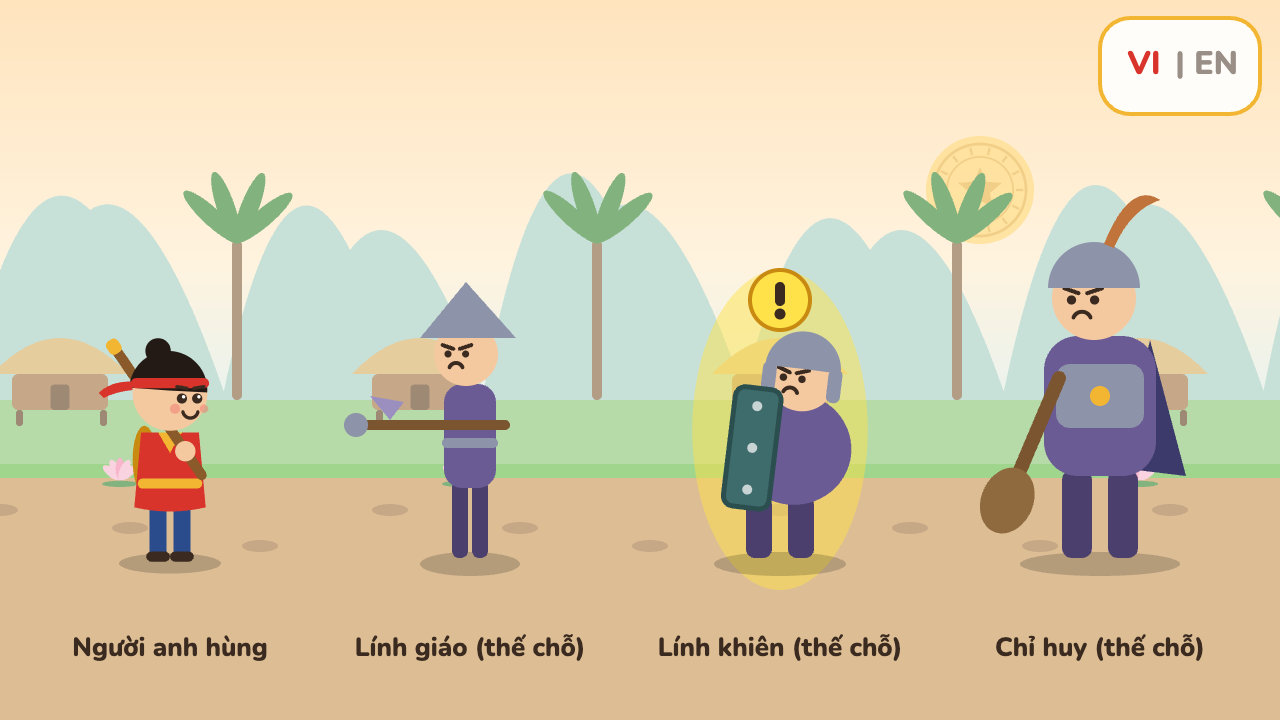
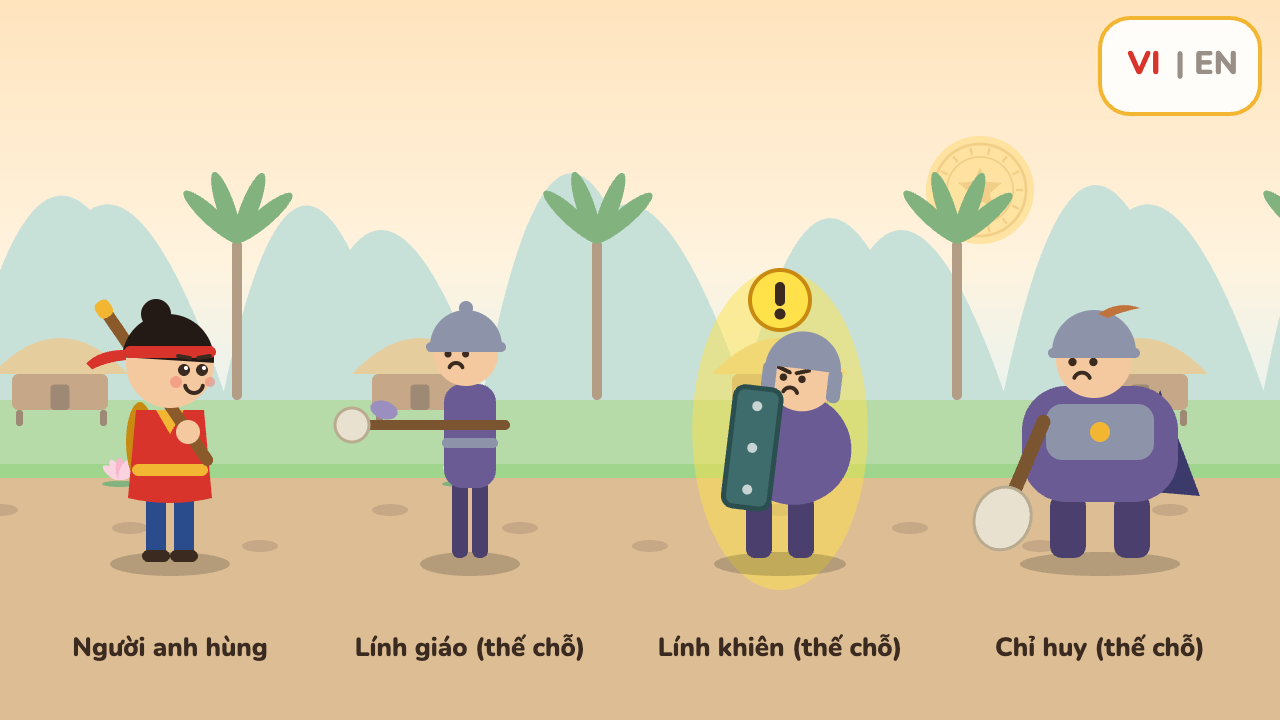
fix: TASK-003 content and code review rework
Content review (game-art-content):
- spear soldier: conical hat replaced by a rounded dome helmet with a small knob; no real-world headwear on any enemy
- commander: no taller than the hero, wider instead
- spear and club: padded, rounded tips; the triangle pennant is now a soft cloth tuft; dropped weapons match

Code review (game-dev-001):
- safe-area insets: the canvas fits inside innerWidth/innerHeight minus env(safe-area-inset-*) (read through --sa* CSS vars); viewport-fit=cover kept; ?inset= simulates a phone's insets for screenshots
- pointers: lostpointercapture counts as a lift; holds clear on visibilitychange when hidden
- hpLeader 5 -> 3, as in the approved plan
- standGap, queueSpacing, kbDecay, spawnOffset, lockOffset moved to config.js
- brief notes for QC: buttons fire on pointerdown

Re-shot: telegraph (VI/EN, 640x360, 844x390, 932x430), figures, leader_beat4, safe-area 844x390 (simulated iPhone insets). Full keyboard playthrough title -> unlock: 0 uncaught errors.

Task: TASK-003

diff --git a/prototypes/tqt-mission/index.html b/prototypes/tqt-mission/index.html
@@ -12,7 +12,9 @@
   html, body { margin: 0; height: 100%; background: #2a2440; overflow: hidden; }
   body { font-variant-numeric: tabular-nums; font-family: Nunito, sans-serif;
          -webkit-user-select: none; user-select: none; -webkit-touch-callout: none; }
-  canvas { display: block; margin: 0 auto; touch-action: none; }
+  :root { --sat: env(safe-area-inset-top, 0px); --sar: env(safe-area-inset-right, 0px);
+          --sab: env(safe-area-inset-bottom, 0px); --sal: env(safe-area-inset-left, 0px); }
+  canvas { display: block; position: absolute; touch-action: none; }
   #rotate { display: none; position: fixed; inset: 0; background: #2a2440; color: #fff;
             flex-direction: column; align-items: center; justify-content: center; gap: 24px;
             font: 800 26px Nunito, sans-serif; text-align: center; padding: 24px; box-sizing: border-box; }
@@ -76,16 +78,32 @@ setLang(lang);
 const canvas = document.getElementById('game');
 const ctx = canvas.getContext('2d');
 let viewScale = 1;
+// Safe areas (notch, home-indicator swipe zone): the canvas fits inside innerWidth/innerHeight minus
+// env(safe-area-inset-*), read through the --sa* CSS vars. ?inset=top,right,bottom,left (CSS px)
+// simulates a phone's insets for a desktop screenshot; players never see it.
+const SIM_INSET = (params.get('inset') || '').split(',').map(Number);
+function insets() {
+  if (SIM_INSET.length === 4 && SIM_INSET.every(n => n >= 0)) return { t: SIM_INSET[0], r: SIM_INSET[1], b: SIM_INSET[2], l: SIM_INSET[3] };
+  const cs = getComputedStyle(document.documentElement), v = n => parseFloat(cs.getPropertyValue(n)) || 0;
+  return { t: v('--sat'), r: v('--sar'), b: v('--sab'), l: v('--sal') };
+}
 function fit() {
-  const k = Math.min(innerWidth / W, innerHeight / H);
+  const ins = insets(), aw = Math.max(1, innerWidth - ins.l - ins.r), ah = Math.max(1, innerHeight - ins.t - ins.b);
+  const k = Math.min(aw / W, ah / H);
   viewScale = k;
   const r = k * (devicePixelRatio || 1);
   canvas.width = Math.round(W * r); canvas.height = Math.round(H * r);
   canvas.style.width = Math.round(W * k) + 'px'; canvas.style.height = Math.round(H * k) + 'px';
-  canvas.style.marginTop = Math.max(0, Math.floor((innerHeight - H * k) / 2)) + 'px';
+  canvas.style.left = Math.floor(ins.l + (aw - W * k) / 2) + 'px';
+  canvas.style.top = Math.floor(ins.t + (ah - H * k) / 2) + 'px';
   ctx.setTransform(r, 0, 0, r, 0, 0); ctx.imageSmoothingEnabled = true;
+  if (SIM_INSET.length === 4) { // show the simulated unsafe band in the shot
+    let d = document.getElementById('inset-sim');
+    if (!d) { d = document.createElement('div'); d.id = 'inset-sim'; document.body.appendChild(d); }
+    d.style.cssText = `position:fixed;left:0;right:0;bottom:0;height:${ins.b}px;background:repeating-linear-gradient(45deg,rgba(255,60,60,.55) 0 6px,transparent 6px 12px);pointer-events:none`;
+  }
 }
-addEventListener('resize', fit); fit();
+addEventListener('resize', fit); addEventListener('orientationchange', fit); fit();
 const portrait = () => innerHeight > innerWidth;
 
 // ---- Drawing helpers ----
@@ -168,7 +186,9 @@ addEventListener('keydown', e => {
   if (e.code === 'Space' || e.code.startsWith('Arrow')) e.preventDefault();
 });
 addEventListener('keyup', e => down.delete(e.code));
-addEventListener('blur', () => { down.clear(); touchHold.clear(); });
+const releaseAll = () => { down.clear(); touchHold.clear(); };
+addEventListener('blur', releaseAll);
+document.addEventListener('visibilitychange', () => { if (document.hidden) releaseAll(); }); // more reliable than blur on phones
 
 let ui = []; // buttons drawn this frame: {x,y,w,h, onTap} or {cx,cy,r, action}
 function toLogical(e) {
@@ -195,6 +215,7 @@ canvas.addEventListener('pointermove', e => { // a thumb sliding between ◀ and
 });
 const lift = e => touchHold.delete(e.pointerId);
 canvas.addEventListener('pointerup', lift); canvas.addEventListener('pointercancel', lift);
+canvas.addEventListener('lostpointercapture', lift); // a lost capture never leaves an action held
 canvas.addEventListener('contextmenu', e => e.preventDefault());
 let pendingTaps = [];
 
@@ -341,18 +362,18 @@ function drawEnemy(e, t) {
   const lean = e.state === 'windup' ? -0.12 : e.state === 'strike' ? 0.15 : 0;
   const weapon = e.state !== 'flee';
   const dizzy = e.state === 'flee' || e.state === 'hurt';
-  if (k === 'spear') { // tall and thin, conical hat, long blunt spear with a pennant
+  if (k === 'spear') { // slim, rounded dome helmet with a small knob (no real-world headwear), padded prop spear
     ctx.fillStyle = C.enemyDark; rr(-18 + lw * 8, -80, 16, 78, 7); ctx.fill(); rr(2 - lw * 8, -80, 16, 78, 7); ctx.fill();
     ctx.save(); ctx.rotate(lean);
     ctx.fillStyle = C.enemy; rr(-26, -176, 52, 104, 18); ctx.fill();
     ctx.fillStyle = C.steel; rr(-28, -122, 56, 10, 5); ctx.fill();
     circle(4, -206, 32, C.skin); grumpyFace(14, -206, 32, dizzy, t);
-    ctx.fillStyle = C.steel; ctx.beginPath(); ctx.moveTo(-46, -222); ctx.lineTo(50, -222); ctx.lineTo(4, -278); ctx.closePath(); ctx.fill(); // conical hat
+    ctx.fillStyle = C.steel; ctx.beginPath(); ctx.arc(4, -214, 36, Math.PI, 0); ctx.fill(); rr(-36, -218, 80, 10, 5); ctx.fill(); circle(4, -252, 7, C.steel); // dome helmet + knob
     if (weapon) {
       const reach = e.state === 'strike' ? 40 : e.state === 'windup' ? -30 : 0;
       ctx.fillStyle = '#7a5530'; rr(-40 + reach, -140, 150, 10, 5); ctx.fill();
-      circle(114 + reach, -135, 12, C.steel);                                  // blunt rounded tip
-      ctx.fillStyle = '#9b8fc0'; ctx.beginPath(); ctx.moveTo(80 + reach, -140); ctx.lineTo(100 + reach, -164); ctx.lineTo(66 + reach, -158); ctx.closePath(); ctx.fill();
+      circle(118 + reach, -135, 17, '#e9e1cf', '#b8ab90', 3);                // big padded tip (prop-like, no point)
+      ctx.fillStyle = '#9b8fc0'; ctx.beginPath(); ctx.ellipse(86 + reach, -150, 14, 9, -0.3, 0, Math.PI * 2); ctx.fill(); // soft cloth tuft
     } else { ctx.fillStyle = C.skin; circle(-30, -190, 10, C.skin); circle(36, -194, 10, C.skin); } // hands up
     ctx.restore();
   } else if (k === 'shield') { // short and wide, round cap with ear flaps, big square shield
@@ -369,27 +390,27 @@ function drawEnemy(e, t) {
       for (const ry of [-150, -108, -66]) circle(57 + push, ry, 5, '#c8d3d3');
     } else { circle(-40, -160, 12, C.skin); circle(44, -164, 12, C.skin); }
     ctx.restore();
-  } else { // leader: big and broad, cape, helmet with a tall plume, big rounded club
-    ctx.fillStyle = C.enemyDark; rr(-38 + lw * 8, -90, 30, 88, 10); ctx.fill(); rr(8 - lw * 8, -90, 30, 88, 10); ctx.fill();
+  } else { // leader: as tall as the hero at most (art-content review), much wider; cape, dome helmet, short plume, padded club
+    ctx.fillStyle = C.enemyDark; rr(-50 + lw * 8, -66, 36, 64, 12); ctx.fill(); rr(14 - lw * 8, -66, 36, 64, 12); ctx.fill();
     ctx.save(); ctx.rotate(lean);
-    ctx.fillStyle = '#3b3a6b'; ctx.beginPath(); ctx.moveTo(-50, -220); ctx.lineTo(-86, -84); ctx.lineTo(-20, -92); ctx.closePath(); ctx.fill(); // cape
-    ctx.fillStyle = C.enemy; rr(-56, -224, 112, 140, 34); ctx.fill();
-    ctx.fillStyle = C.steel; rr(-44, -196, 88, 64, 14); ctx.fill();            // breastplate
-    ctx.fillStyle = C.gold; circle(0, -164, 10, C.gold);
-    circle(6, -262, 42, C.skin); grumpyFace(18, -260, 42, dizzy, t);
-    ctx.fillStyle = C.steel; ctx.beginPath(); ctx.arc(6, -272, 46, Math.PI, 0); ctx.fill();
-    ctx.fillStyle = '#c0733a'; ctx.beginPath(); ctx.moveTo(-4, -316); ctx.quadraticCurveTo(-30, -380, -60, -360); ctx.quadraticCurveTo(-30, -350, -14, -312); ctx.fill(); // plume
+    ctx.fillStyle = '#3b3a6b'; ctx.beginPath(); ctx.moveTo(-60, -170); ctx.lineTo(-100, -64); ctx.lineTo(-30, -70); ctx.closePath(); ctx.fill(); // cape
+    ctx.fillStyle = C.enemy; rr(-78, -174, 156, 116, 44); ctx.fill();
+    ctx.fillStyle = C.steel; rr(-54, -156, 108, 56, 16); ctx.fill();           // breastplate
+    circle(0, -128, 10, C.gold);
+    circle(6, -200, 38, C.skin); grumpyFace(18, -198, 38, dizzy, t);
+    ctx.fillStyle = C.steel; ctx.beginPath(); ctx.arc(6, -208, 42, Math.PI, 0); ctx.fill(); rr(-40, -212, 92, 10, 5); ctx.fill();
+    ctx.fillStyle = '#c0733a'; ctx.beginPath(); ctx.moveTo(2, -246); ctx.quadraticCurveTo(-18, -260, -40, -252); ctx.quadraticCurveTo(-20, -248, -8, -242); ctx.fill(); // short plume
     if (weapon) {
       const sw = e.state === 'windup' ? -1.2 : e.state === 'strike' ? 0.6 : -0.4;
-      ctx.save(); ctx.translate(46, -170); ctx.rotate(sw);
-      ctx.fillStyle = '#7a5530'; rr(-7, -20, 14, 130, 7); ctx.fill();
-      ctx.fillStyle = '#8f6a3e'; ctx.beginPath(); ctx.ellipse(0, 120, 26, 34, 0, 0, Math.PI * 2); ctx.fill(); // rounded club head
+      ctx.save(); ctx.translate(60, -130); ctx.rotate(sw);
+      ctx.fillStyle = '#7a5530'; rr(-7, -16, 14, 100, 7); ctx.fill();
+      ctx.fillStyle = '#e9e1cf'; ctx.beginPath(); ctx.ellipse(0, 96, 28, 32, 0, 0, Math.PI * 2); ctx.fill(); ctx.strokeStyle = '#b8ab90'; ctx.lineWidth = 3; ctx.stroke(); // padded club head
       ctx.restore();
-    } else { circle(-60, -240, 14, C.skin); circle(70, -244, 14, C.skin); }
+    } else { circle(-80, -170, 14, C.skin); circle(90, -174, 14, C.skin); }
     ctx.restore();
   }
   ctx.restore();
-  const topY = GROUND - (k === 'leader' ? 360 : k === 'shield' ? 240 : 290);
+  const topY = GROUND - (k === 'leader' ? 280 : k === 'shield' ? 240 : 272);
   if (dizzy) for (let i = 0; i < 3; i++) { const a = t * 5 + i * 2.1; star(e.x + Math.cos(a) * 34, topY + 20 + Math.sin(a) * 10, 9, C.glow, C.goldDark, a); }
   if (e.state === 'windup') { // telegraph: pulsing glow ring + a drawn "!" bubble
     const bx = e.x, by = topY - 20;
@@ -399,9 +420,9 @@ function drawEnemy(e, t) {
 }
 function drawDropped(d) { // a dropped weapon lying on the path (it fades)
   ctx.save(); ctx.globalAlpha = Math.min(1, d.life); ctx.translate(d.x, GROUND - 8); ctx.rotate(d.rot);
-  if (d.kind === 'spear') { ctx.fillStyle = '#7a5530'; rr(-90, -5, 180, 10, 5); ctx.fill(); circle(92, 0, 11, C.steel); }
+  if (d.kind === 'spear') { ctx.fillStyle = '#7a5530'; rr(-75, -5, 150, 10, 5); ctx.fill(); circle(80, 0, 15, '#e9e1cf', '#b8ab90', 3); }
   else if (d.kind === 'shield') { ctx.fillStyle = C.teal; rr(-60, -16, 120, 32, 8); ctx.fill(); }
-  else { ctx.fillStyle = '#7a5530'; rr(-60, -6, 120, 12, 6); ctx.fill(); ctx.fillStyle = '#8f6a3e'; ctx.beginPath(); ctx.ellipse(70, 0, 30, 22, 0, 0, Math.PI * 2); ctx.fill(); }
+  else { ctx.fillStyle = '#7a5530'; rr(-60, -6, 120, 12, 6); ctx.fill(); ctx.fillStyle = '#e9e1cf'; ctx.beginPath(); ctx.ellipse(70, 0, 30, 24, 0, 0, Math.PI * 2); ctx.fill(); }
   ctx.restore();
 }
 // Hand hint: a cartoon pointing hand that bobs toward a control (plan review 1: not text).
@@ -537,13 +558,13 @@ const BEAT_TYPES = ['fight']; // TASK-003b adds 'walk', 'hold', 'training', 'rea
 function startBeat(i) {
   const b = beats()[i];
   if (!BEAT_TYPES.includes(b.type || 'fight')) { console.warn(`beat ${i + 1}: type '${b.type}' is not built yet (TASK-003b); playing it as a fight`); events.push({ type: 'beat-type-not-built', beat: i + 1, beatType: b.type }); }
-  state.phase = 'fight'; state.lockX = beatX(i) - 500; state.cam = state.lockX;
+  state.phase = 'fight'; state.lockX = beatX(i) - tune.lockOffset; state.cam = state.lockX;
   state.queue = b.enemies.map((k, j) => ({ kind: k, left: (b.fromLeft || []).includes(j) }));
   state.spawnT = 0.4; state.stall = 0; state.endT = 0;
   events.push({ type: 'beat', beat: i + 1 });
 }
 function spawn(q) {
-  const left = q.left, x = left ? state.lockX - 80 : state.lockX + W + 80;
+  const left = q.left, x = left ? state.lockX - tune.spawnOffset : state.lockX + W + tune.spawnOffset;
   state.enemies.push({ id: state.nextId++, kind: q.kind, x, face: left ? 1 : -1, state: 'enter', t: 0, hits: 0, kb: 0, moving: true });
   state.tut.enemySeen = true;
 }
@@ -552,13 +573,13 @@ function updateEnemies(dt) {
   const speed = k => tune.enemySpeed * (k === 'leader' ? tune.leaderSpeedMul : 1);
   for (const e of state.enemies) {
     e.t += dt;
-    if (e.kb) { const m = e.kb * dt / 0.25; e.x += m; e.kb -= m; if (Math.abs(e.kb) < 2) e.kb = 0; }
+    if (e.kb) { const m = e.kb * Math.min(1, dt / tune.kbDecay); e.x += m; e.kb -= m; if (Math.abs(e.kb) < 2) e.kb = 0; }
     const side = Math.sign(e.x - h.x) || 1, dist = Math.abs(e.x - h.x);
     if (e.state !== 'flee') e.face = -side;
     // Only the nearest enemy on each side may strike; the others wait a little further back.
     const sameSide = state.enemies.filter(o => o.state !== 'flee' && Math.sign(o.x - h.x) === side).sort((a, b) => Math.abs(a.x - h.x) - Math.abs(b.x - h.x));
     const rank = sameSide.indexOf(e);
-    const stand = tune.enemyReach - 10 + Math.max(0, rank) * 150;
+    const stand = tune.enemyReach - tune.standGap + Math.max(0, rank) * tune.queueSpacing;
     switch (e.state) {
       case 'enter': case 'approach': {
         const target = h.x + side * stand, dx = target - e.x;
@@ -863,7 +884,7 @@ const scenes = {
       ctx.fillStyle = 'rgba(255,255,255,0.35)'; ctx.fillRect(0, 0, W, H);
       const t = state.t, y = 560;
       ctx.save(); ctx.translate(0, y - GROUND);
-      drawHero(170, GROUND, 1, { walk: false, defend: false }, t, 0.85);
+      drawHero(170, GROUND, 1, { walk: false, defend: false }, t, 1);
       drawEnemy({ x: 470, kind: 'spear', face: -1, state: 'approach', id: 1 }, t);
       drawEnemy({ x: 780, kind: 'shield', face: -1, state: 'windup', id: 2 }, t);
       drawEnemy({ x: 1100, kind: 'leader', face: -1, state: 'approach', id: 3 }, t);

diff --git a/prototypes/tqt-mission/config.js b/prototypes/tqt-mission/config.js
@@ -27,8 +27,13 @@ window.CONFIG = {
   fleeSpeed: { value: 420, min: 150, max: 800, step: 10 },       // running away after the last hit, px/s
   hpSpear: { value: 2, min: 1, max: 6, step: 1 },                // hits before a spear soldier drops his spear
   hpShield: { value: 3, min: 1, max: 8, step: 1 },               // hits before a shield soldier gives up
-  hpLeader: { value: 5, min: 1, max: 12, step: 1 },              // hits before the leader gives up
+  hpLeader: { value: 3, min: 1, max: 12, step: 1 },              // hits before the leader gives up (approved plan: 3)
   leaderSpeedMul: { value: 0.75, min: 0.3, max: 1.5, step: 0.05 },// leader walk speed as a share of enemySpeed
+  standGap: { value: 10, min: 0, max: 60, step: 2 },            // how far inside enemyReach the front enemy stands, px
+  queueSpacing: { value: 150, min: 60, max: 300, step: 10 },     // gap between enemies waiting their turn on one side, px
+  kbDecay: { value: 0.25, min: 0.05, max: 1, step: 0.05 },       // time a knock-back takes to play out, s
+  spawnOffset: { value: 80, min: 0, max: 300, step: 10 },        // how far off-screen enemies start, px
+  lockOffset: { value: 500, min: 200, max: 900, step: 10 },      // hero's screen x when a fight's camera locks, px
   leaderKnockMul: { value: 0.5, min: 0.1, max: 1, step: 0.05 },  // leader knock-back as a share of knockback
 
   // Help for small hands (plan review 1 and 2)

diff --git a/prototypes/tqt-mission/brief.md b/prototypes/tqt-mission/brief.md
@@ -32,6 +32,8 @@ move / attack / defend buttons, then answer a picture quiz to unlock the next he
 **Controls:** touch: ◀ ▶ pads bottom-left, Attack and hold-to-Defend bottom-right, every button
 at least 72 CSS px on a 640x360 screen. Keys mirror them: ← → or A D move, J or Space attack,
 hold K or Shift defend, Enter next, 1 2 3 answer, L language, P pause, M mute.
+For QC: menu and answer buttons fire on touch-down (pointerdown), not on release. The canvas
+fits inside the safe-area insets (notch, home-indicator zone).
 
 **Question:** Can a 6-year-old play one hero's story as light touch action on a landscape phone,
 then answer a short quiz about it?
@@ -64,8 +66,8 @@ and a one-line ⟨placeholder beat 1⟩ caption ends the beat.
 
 ## Challenge
 The first real trouble is beat 2 (about minute 2): two soldiers at once, one of them a shield
-soldier who takes three hits. Beat 3 sends one from behind. Beat 4 has the leader, bigger and
-slower, five hits. Telegraphs are 1.1 s, so watching and defending is the skill. A missed block
+soldier who takes three hits. Beat 3 sends one from behind. Beat 4 has the leader, wider and
+slower, three hits. Telegraphs are 1.1 s, so watching and defending is the skill. A missed block
 only pushes the hero back a little; nothing is lost and there is no game over. Stars come from
 the quiz alone: 3 for no wrong answers, 2 for up to two, 1 for finishing.
 
